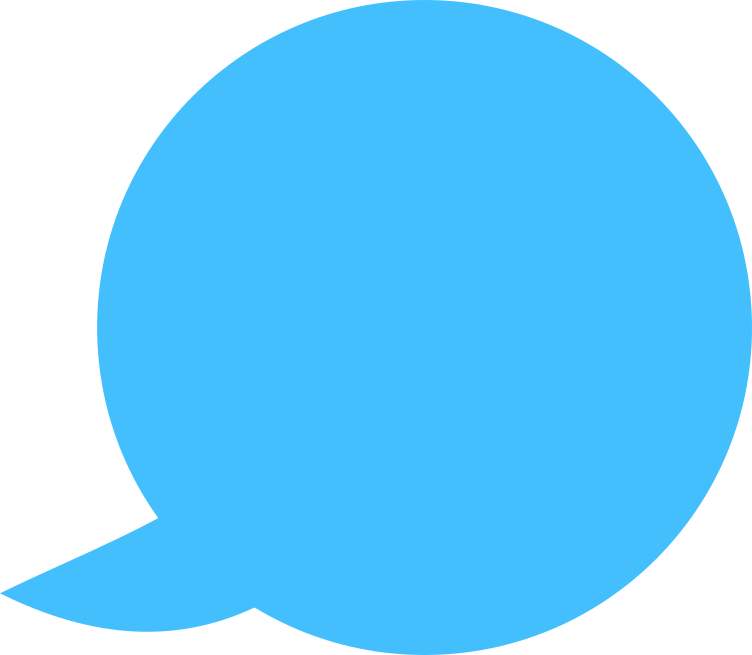
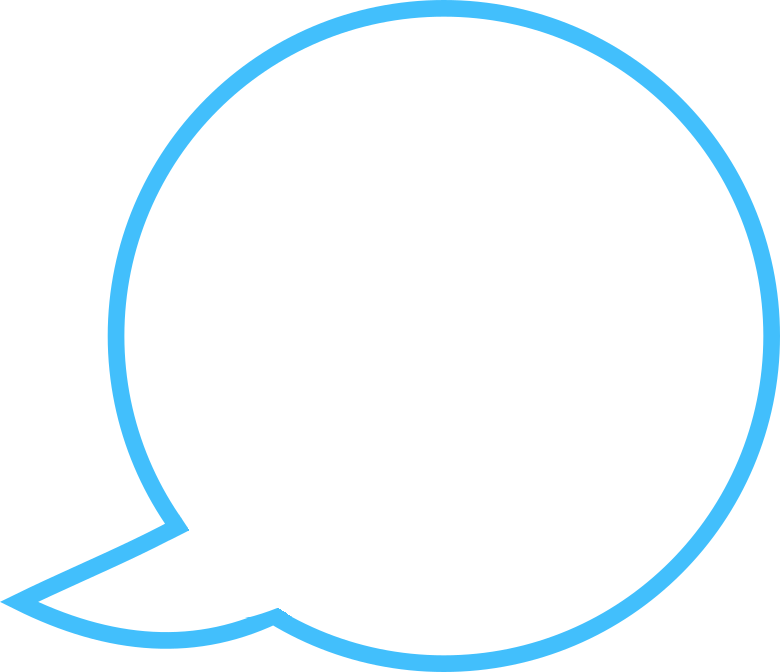
changed speech bubble to white

diff --git a/app/assets/stylesheets/rounds/_show.scss b/app/assets/stylesheets/rounds/_show.scss
@@ -96,19 +96,19 @@ body {
 }
 
 .speech-bubble {
-  width: 114px * 2;
-  height: 100px * 2;
+  width: 104px * 2;
+  height: 90px * 2;
   position: absolute;
   top: 170px;
-  left: 35px;
+  left: 25px;
   right: 3%;
   background-image: url('speech_bubble.png');
   background-size: cover;
   background-repeat: none;
   p {
   	position: absolute;
-  	top: 75px;
-  	left: 40%;
+  	top: 70px;
+  	left: 35%;
   	color: $white;
 	font-size: 50px;
 	font-weight: bolder;
@@ -131,6 +131,7 @@ body {
 
 #score {
   margin-bottom: -50px;
+  color: $blue;
 }
 
 #bar-column {
